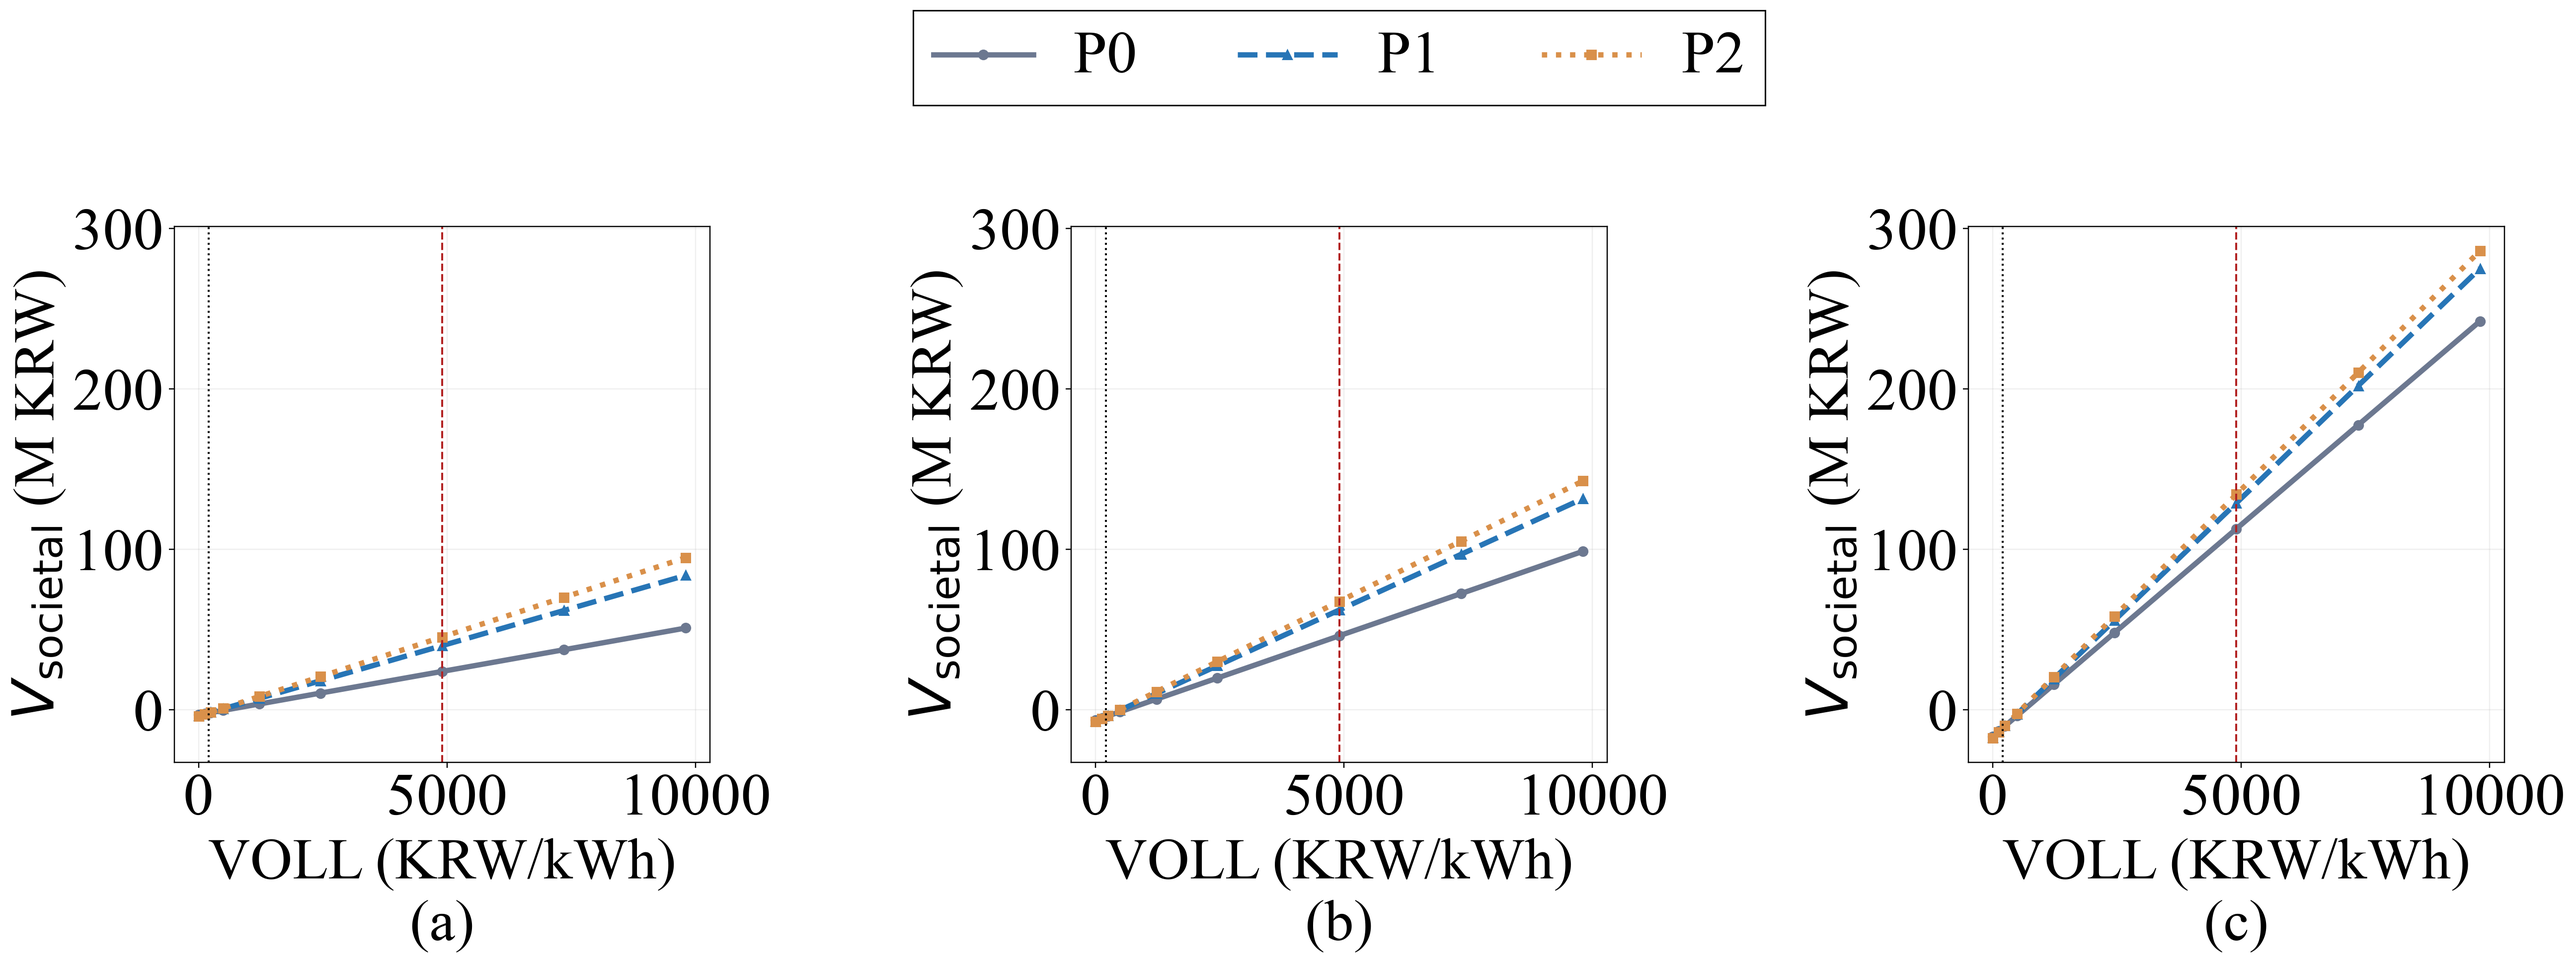
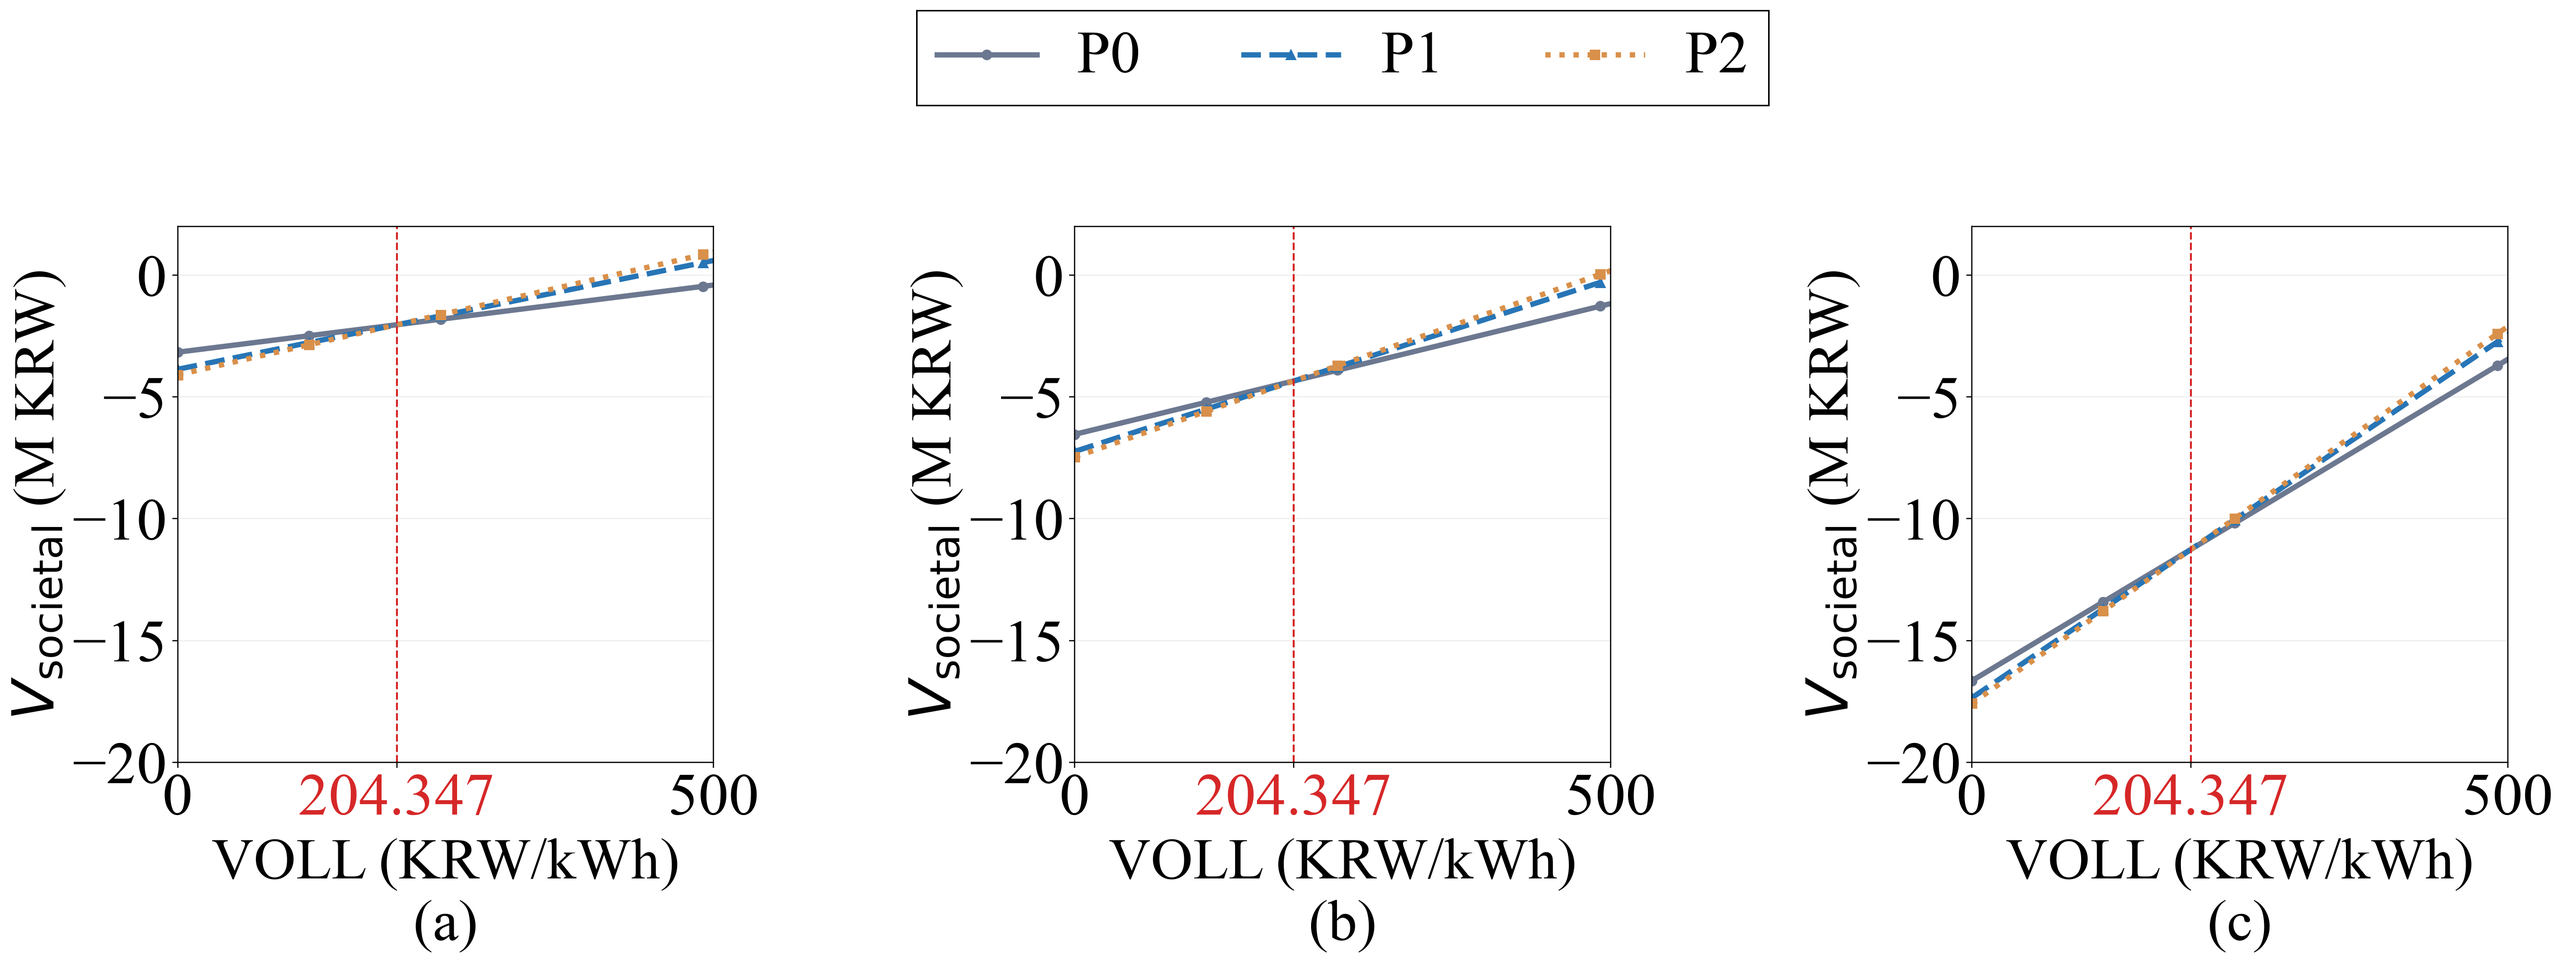
Zoom Figure 11 to break-even VOLL range

diff --git a/p1_additional_analysis.py b/p1_additional_analysis.py
@@ -151,13 +151,16 @@ def main() -> None:
                         "net_societal_million_krw": value,
                     }
                 )
-        axis.axvline(break_even, color="black", linestyle=":", linewidth=1.3)
-        axis.axvline(VOLL_KRW_PER_KWH, color="firebrick", linestyle="--", linewidth=1.3)
+        axis.axvline(break_even, color="#d62728", linestyle="--", linewidth=1.3)
         axis.set_xlabel(f"VOLL (KRW/kWh)\n({letter})")
         axis.set_ylabel(r"$V_{\mathrm{societal}}$ (M KRW)")
         axis.tick_params(axis="y", labelleft=True)
         axis.set_box_aspect(1)
-        axis.set_xticks((0, 5000, 10000))
+        axis.set_xlim(0, 500)
+        axis.set_xticks((0, break_even, 500), ("0", f"{break_even:.3f}", "500"))
+        axis.get_xticklabels()[1].set_color("#d62728")
+        axis.set_ylim(-20, 2)
+        axis.set_yticks((-20, -15, -10, -5, 0))
         axis.grid(alpha=0.2)
     fig.legend(
         *axes[0].get_legend_handles_labels(),
